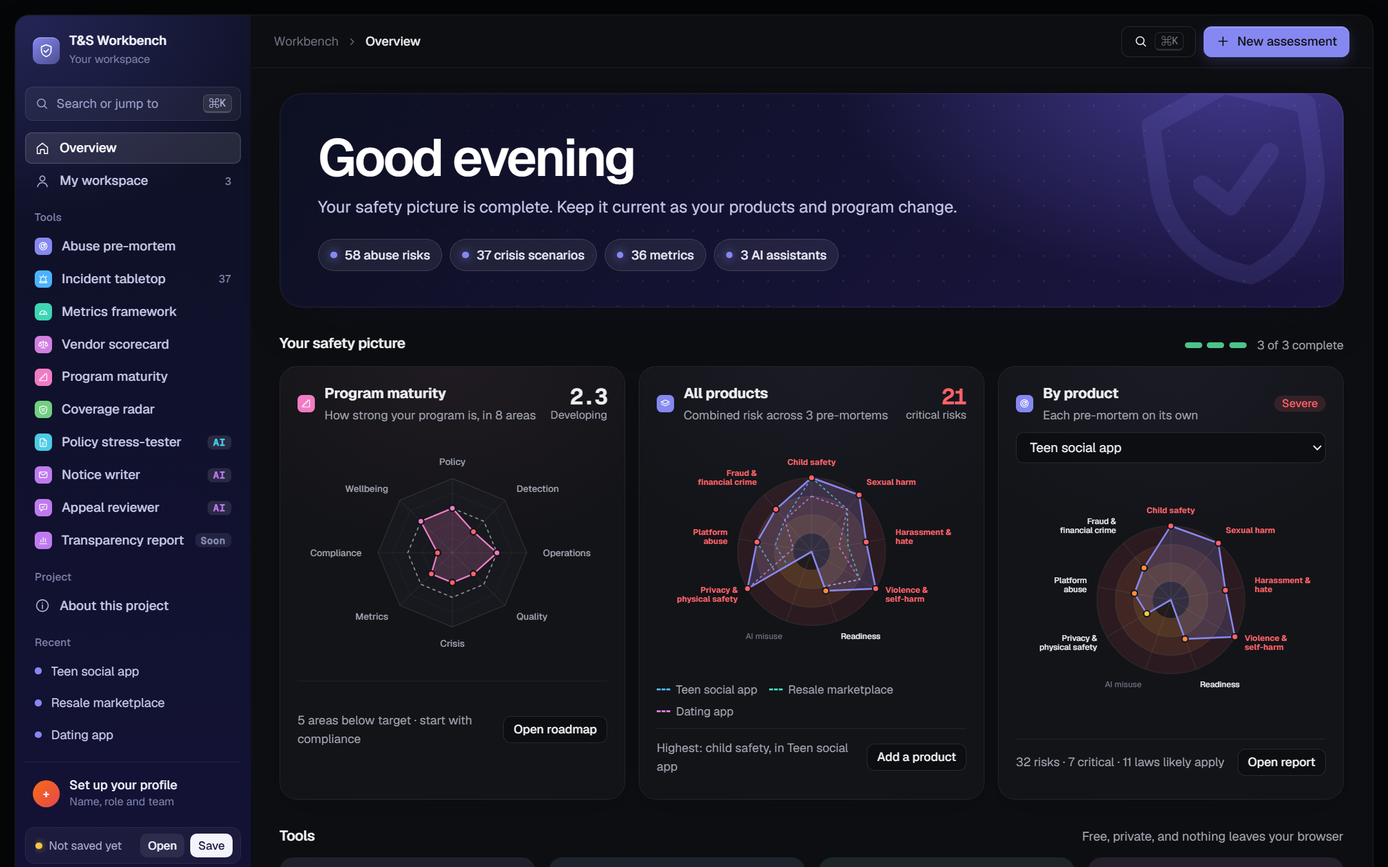
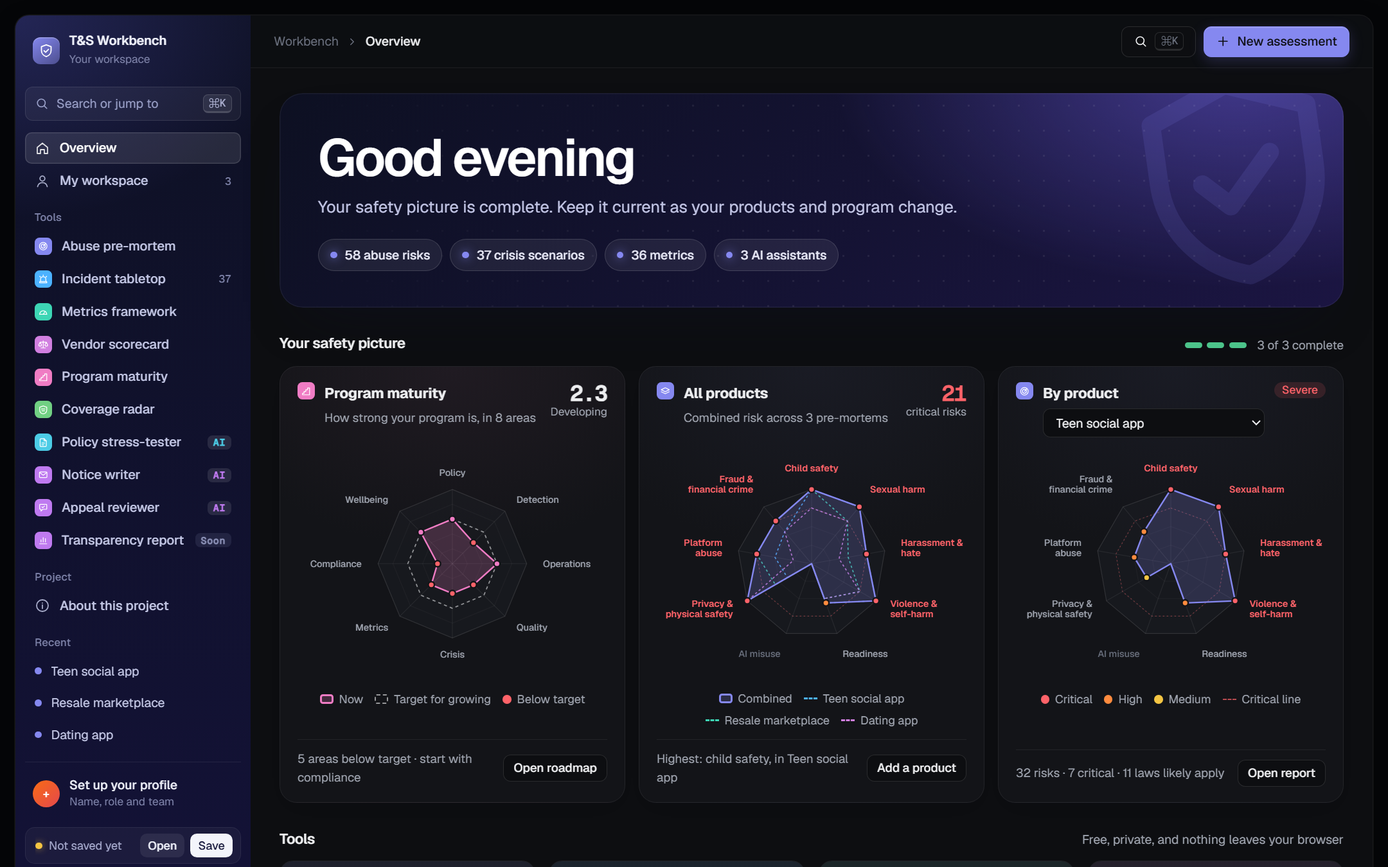
One radar style: risk radars use the maturity radar's polygon rings, and the overview's three radars line up

diff --git a/docs/index.html b/docs/index.html
@@ -2441,6 +2441,29 @@ body[data-route="coverage"]{--tc:var(--t-cv)}
 .ma-snap-c i{flex:1;background:color-mix(in oklab, var(--t-ma) 55%, transparent);border-radius:2px 2px 0 0;min-height:2px}
 @media (max-width:1100px){.ma-band{grid-template-columns:1fr}.ma-byarea{grid-template-columns:1fr}.ma-alist{position:static;grid-template-columns:repeat(2,minmax(0,1fr))}.ma-prog-tab{grid-template-columns:1fr}}
 @media (max-width:640px){.ma-alist{grid-template-columns:1fr}.ma-band{padding:18px}.ma-score.big .mono{font-size:36px}}
+
+/* ---------- Overview radars: one style, one line ---------- */
+.ov-pc{display:flex;flex-direction:column;gap:10px}
+.ov-pc-h{min-height:58px;align-items:start}
+.ov-pc-h > div{gap:4px}
+.ov-pick .select{padding:4px 28px 4px 9px;font-size:13px;height:30px;max-width:100%}
+.ov-pc-r{display:block;min-height:0;aspect-ratio:4/3;width:100%;max-width:440px;margin:0 auto}
+.ov-pc-r > svg,.ov-pc .ma-radar{width:100%;height:100%;max-width:none}
+.ov-pc-empty .ov-pc-r > svg{opacity:.45;filter:grayscale(1);max-width:none}
+.ov-pc .ov-legend{min-height:20px;justify-content:center}
+.ov-pc-f{margin-top:auto}
+.ov-lg-fill{width:14px!important;height:10px!important;border-radius:3px;border:2px solid var(--c)!important;background:color-mix(in oklab, var(--c) 22%, transparent)}
+.ov-lg-tgt{width:14px!important;height:10px!important;border:1.5px dashed var(--ink)!important;border-top-width:1.5px!important;opacity:.6;border-radius:2px}
+.ov-lg-line{width:14px!important;height:0!important;border-top:2px dashed}
+.ov-lg-dot{width:9px!important;height:9px!important;border-radius:50%;background:var(--crit);border:0!important}
+.ov-lg-crit{width:14px!important;height:0!important;border-top:1.5px dashed var(--crit)!important;opacity:.7}
+.ma-rl.crit{fill:var(--crit);font-weight:600}
+.ma-rl.none{fill:var(--faint)}
+.rk-radar{overflow:visible}
+.rk-shape{animation:ovdraw 1.2s cubic-bezier(.2,.7,.2,1) both;stroke-dasharray:1400}
+.radarwrap .rk-radar{width:100%;height:auto}
+.ov-hr .radarwrap{max-width:440px}
+@media (prefers-reduced-motion: reduce){.rk-shape{animation:none}}
 </style>
 
 <svg width="0" height="0" style="position:absolute" aria-hidden="true">
@@ -7884,39 +7907,43 @@ const RADAR_GROUPS = [
   {n:"Platform abuse", l:["Platform","abuse"], cats:["integrity","security","illegal"]},
   {n:"Fraud & financial crime", l:["Fraud &","financial crime"], cats:["fraud","fincrime"]}
 ];
+// Worst risk in each radar group for one assessment
+function pmGroupData(r){
+  return RADAR_GROUPS.map(g => { const rs = r.risks.filter(x => g.cats.includes(x.cat)).sort((a, b) => b.score - a.score), w = rs[0];
+    return {g, score:w ? w.score : 0, band:w ? w.band : null, worst:w ? w.n : "", n:rs.length}; });
+}
+// The risk radar, drawn like the maturity radar: polygon rings, the same size and labels.
+// layers: [{g, color, fill, dash}]; the filled layer is the main shape and sets the dots and label colors.
+// Rings mark 4, 8, 12 and 16 out of 16; the dashed red ring is where risks turn critical.
+function riskRadarSVG(layers, label, opts){
+  const o = opts || {}, n = RADAR_GROUPS.length, W = 400, H = o.big ? 330 : 300, cx = W / 2, cy = H / 2, R = o.big ? 104 : 96, f = v => v.toFixed(1);
+  const ang = i => -Math.PI / 2 + i * 2 * Math.PI / n, pt = (i, s) => [cx + Math.cos(ang(i)) * R * s / 16, cy + Math.sin(ang(i)) * R * s / 16];
+  const poly = vals => vals.map((v, i) => pt(i, v).map(f).join(",")).join(" ");
+  const rings = [4, 8, 12, 16].map(v => `<polygon points="${poly(RADAR_GROUPS.map(() => v))}" fill="${v === 16 ? "var(--sunk)" : "none"}" fill-opacity="${v === 16 ? .5 : 0}" stroke="var(--line${v === 16 ? "-strong" : ""})" stroke-width="1"/>`).join("")
+    + `<polygon points="${poly(RADAR_GROUPS.map(() => 12))}" fill="none" stroke="var(--crit)" stroke-opacity=".4" stroke-width="1" stroke-dasharray="2 3"/>`;
+  const axes = RADAR_GROUPS.map((g, i) => { const [x, y] = pt(i, 16); return `<line x1="${cx}" y1="${cy}" x2="${f(x)}" y2="${f(y)}" stroke="var(--line)" stroke-width="1"/>`; }).join("");
+  const main = layers.find(l => l.fill) || layers[0];
+  const labels = RADAR_GROUPS.map((g, i) => { const [x, y] = pt(i, 16 * (o.big ? 1.25 : 1.22)), c = Math.cos(ang(i)), s = Math.sin(ang(i)), extra = g.l.length - 1, d = main ? main.g[i] : null;
+    const anchor = c > .3 ? "start" : c < -.3 ? "end" : "middle", dy0 = s < -.6 ? `${-.2 - 1.1 * extra}em` : s > .6 ? ".9em" : `${.35 - .55 * extra}em`;
+    return `<text x="${f(x)}" y="${f(y)}" text-anchor="${anchor}" class="ma-rl ${d && d.band === "crit" ? "crit" : d && d.score ? "" : "none"}">${g.l.map((t, j) => `<tspan x="${f(x)}" dy="${j ? "1.1em" : dy0}">${esc(t)}</tspan>`).join("")}</text>`; }).join("");
+  const shapes = layers.map(l => { const pts = poly(l.g.map(d => d.score));
+    return l.fill ? `<polygon class="rk-shape" points="${pts}" fill="${l.color}" fill-opacity=".2" stroke="${l.color}" stroke-width="2" stroke-linejoin="round"/>`
+                  : `<polygon points="${pts}" fill="none" stroke="${l.color}" stroke-width="1.4" stroke-opacity=".85" stroke-linejoin="round" stroke-dasharray="${l.dash || ""}"/>`; }).join("");
+  const dots = main ? main.g.map((d, i) => { const [x, y] = pt(i, d.score), fill = d.band ? `var(--${d.band === "low" ? "muted" : d.band})` : "var(--line-strong)";
+    if(!d.score && !o.interactive) return "";
+    const dot = `<circle cx="${f(x)}" cy="${f(y)}" r="${d.band ? (o.big ? 4.5 : 4) : 3}" fill="${fill}" stroke="var(--surface)" stroke-width="2"/>`;
+    if(!o.interactive) return dot;
+    const inc = d.g.cats.length > 1 ? d.g.cats.map(k => CATS[k]).join(", ") : "";
+    return `<g class="rpt" tabindex="0" data-a="${esc(d.g.n)}" data-i="${esc(inc)}" data-b="${d.band ? BANDS[d.band][0] : "No risks"}" data-s="${d.score}" data-w="${esc(d.worst)}" data-n="${d.n}"><circle cx="${f(x)}" cy="${f(y)}" r="12" fill="transparent"/>${dot}</g>`; }).join("") : "";
+  return `<svg class="ma-radar rk-radar ${o.big ? "big" : ""}" viewBox="0 0 ${W} ${H}" role="img" aria-label="${esc(label)}">${rings}${axes}${shapes}${dots}${labels}</svg>`;
+}
+// Pre-mortem radar with hover and focus details for each point
 function radarChart(r){
-  const n = RADAR_GROUPS.length, cx = 180, cy = 125, R = 88;
-  const ang = i => (-90 + i*360/n) * Math.PI/180;
-  const pt = (i, rad) => [cx + rad*Math.cos(ang(i)), cy + rad*Math.sin(ang(i))];
-  // r.risks is sorted by score, so the first matching risk is the group's worst
-  const data = RADAR_GROUPS.map(g => { const rs = r.risks.filter(x=>g.cats.includes(x.cat)); const worst = rs[0];
-    return {g, n:rs.length, score: worst ? worst.score : 0, band: worst ? worst.band : null, worst: worst ? worst.n : ""}; });
-  const f = v => v.toFixed(1);
-  const poly = data.map((d,i)=>pt(i, R*d.score/16).map(f).join(",")).join(" ");
-  const zones = [[16,"var(--crit-soft)"],[12,"var(--high-soft)"],[8,"var(--med-soft)"],[4,"var(--surface)"]]
-    .map(([v,c])=>`<circle cx="${cx}" cy="${cy}" r="${f(R*v/16)}" fill="${c}" stroke="var(--line)" stroke-width="1"/>`).join("");
-  const spokes = data.map((d,i)=>{ const [x,y]=pt(i,R); return `<line x1="${cx}" y1="${cy}" x2="${f(x)}" y2="${f(y)}" stroke="var(--line)" stroke-width="1"/>`; }).join("");
-  const ringLabels = [[4,"Medium"],[8,"High"],[12,"Critical"]].map(([v,t])=>`<text x="${cx+4}" y="${f(cy - R*v/16 - 3)}" font-size="8" fill="var(--faint)">${t}</text>`).join("");
-  const labels = data.map((d,i)=>{ const [x,y]=pt(i,R+13), c=Math.cos(ang(i)), s=Math.sin(ang(i)), lines=d.g.l, extra=lines.length-1;
-    const anchor = c>0.25?"start":c<-0.25?"end":"middle";
-    const dy0 = s<-0.6 ? `${-0.2-1.1*extra}em` : s>0.6 ? "0.9em" : `${0.35-0.55*extra}em`;
-    return `<text x="${f(x)}" y="${f(y)}" text-anchor="${anchor}" font-size="9.5" fill="${d.score?"var(--ink)":"var(--faint)"}" font-weight="${d.band==="crit"?600:400}">${lines.map((t,j)=>`<tspan x="${f(x)}" dy="${j?"1.1em":dy0}">${esc(t)}</tspan>`).join("")}</text>`; }).join("");
-  const points = data.map((d,i)=>{ const [x,y]=pt(i, R*d.score/16);
-    const fill = d.band ? `var(--${d.band==="low"?"muted":d.band})` : "var(--line-strong)";
-    const inc = d.g.cats.length>1 ? d.g.cats.map(k=>CATS[k]).join(", ") : "";
-    return `<g class="rpt" tabindex="0" data-a="${esc(d.g.n)}" data-i="${esc(inc)}" data-b="${d.band?BANDS[d.band][0]:"No risks"}" data-s="${d.score}" data-w="${esc(d.worst)}" data-n="${d.n}">
-      <circle cx="${f(x)}" cy="${f(y)}" r="12" fill="transparent"/>
-      <circle cx="${f(x)}" cy="${f(y)}" r="${d.band?4.5:3}" fill="${fill}" stroke="var(--surface)" stroke-width="2"/></g>`; }).join("");
-  const top = data.filter(d=>d.score).sort((a,b)=>b.score-a.score).slice(0,3).map(d=>`${d.g.n} (${BANDS[d.band][0].toLowerCase()})`).join(", ");
-  return `<div class="radarwrap">
-    <svg class="radar" viewBox="0 0 360 250" role="img" aria-label="Risk radar by harm group. Highest: ${esc(top||"none")}.">
-      ${zones}${spokes}${ringLabels}
-      <polygon points="${poly}" fill="var(--accent)" fill-opacity=".18" stroke="var(--accent)" stroke-width="2" stroke-linejoin="round"/>
-      ${points}${labels}
-    </svg>
+  const data = pmGroupData(r), top = data.filter(d => d.score).sort((a, b) => b.score - a.score).slice(0, 3).map(d => `${d.g.n} (${BANDS[d.band][0].toLowerCase()})`).join(", ");
+  return `<div class="radarwrap">${riskRadarSVG([{g:data, color:"var(--accent)", fill:true}], "Risk radar by harm group. Highest: " + (top || "none") + ".", {interactive:true, big:true})}
     <div class="rtip" hidden></div>
-    <p class="note radarcap">Each point is the highest-rated risk in that group of harm areas. The further out, the more urgent.</p>
-    <ul class="visually-hidden">${data.map(d=>`<li>${esc(d.g.n)}: ${d.score?`${BANDS[d.band][0]}, score ${d.score} of 16, ${d.n} risk${d.n===1?"":"s"}`:"no risks"}</li>`).join("")}</ul>
+    <p class="note radarcap">Each point is the highest-rated risk in that group of harm areas. The dashed red ring marks critical.</p>
+    <ul class="visually-hidden">${data.map(d => `<li>${esc(d.g.n)}: ${d.score ? `${BANDS[d.band][0]}, score ${d.score} of 16, ${d.n} risk${d.n === 1 ? "" : "s"}` : "no risks"}</li>`).join("")}</ul>
   </div>`;
 }
 function bindRadar(){
@@ -9519,33 +9546,10 @@ function bindCoverage(){
    Program maturity · all products combined · one product at a time
    ========================================================= */
 const OV_LAYER = ["var(--t-tt)", "var(--t-mx)", "var(--t-vd)", "var(--t-ma)", "var(--t-pol)", "var(--high)"];
-// Worst risk in each radar group for one assessment
-function pmGroupData(r){
-  return RADAR_GROUPS.map(g => { const rs = r.risks.filter(x => g.cats.includes(x.cat)).sort((a, b) => b.score - a.score), w = rs[0];
-    return {score:w ? w.score : 0, band:w ? w.band : null, worst:w ? w.n : "", n:rs.length}; });
-}
 // Saved pre-mortems with their assessment, newest first
 function ovSavedPMs(){
   return Object.values(wsItems()).filter(it => it.kind === "premortem" && it.data).sort((a, b) => (b.updated || 0) - (a.updated || 0))
     .map(it => { const r = assess(openRecord(it.data)); return {it, r, g:pmGroupData(r), name:it.title || it.data.name || "Untitled assessment"}; });
-}
-// Risk radar with one or more layers: {g, color, fill} (fill marks the main shape)
-function riskRadarSVG(layers, label){
-  const n = RADAR_GROUPS.length, cx = 180, cy = 124, R = 86, f = v => v.toFixed(1);
-  const ang = i => (-90 + i * 360 / n) * Math.PI / 180, pt = (i, rad) => [cx + rad * Math.cos(ang(i)), cy + rad * Math.sin(ang(i))];
-  const zones = [[16, "var(--crit-soft)"], [12, "var(--high-soft)"], [8, "var(--med-soft)"], [4, "var(--surface)"]]
-    .map(([v, c]) => `<circle cx="${cx}" cy="${cy}" r="${f(R * v / 16)}" fill="${c}" fill-opacity=".75" stroke="var(--line)" stroke-width="1"/>`).join("");
-  const spokes = RADAR_GROUPS.map((g, i) => { const [x, y] = pt(i, R); return `<line x1="${cx}" y1="${cy}" x2="${f(x)}" y2="${f(y)}" stroke="var(--line)"/>`; }).join("");
-  const main = layers.find(l => l.fill) || layers[0];
-  const labels = RADAR_GROUPS.map((g, i) => { const [x, y] = pt(i, R + 13), c = Math.cos(ang(i)), s = Math.sin(ang(i)), extra = g.l.length - 1, d = main ? main.g[i] : null;
-    const anchor = c > .25 ? "start" : c < -.25 ? "end" : "middle", dy0 = s < -.6 ? `${-.2 - 1.1 * extra}em` : s > .6 ? ".9em" : `${.35 - .55 * extra}em`;
-    return `<text x="${f(x)}" y="${f(y)}" text-anchor="${anchor}" class="ov-rl ${d && d.band === "crit" ? "crit" : d && d.score ? "" : "none"}">${g.l.map((t, j) => `<tspan x="${f(x)}" dy="${j ? "1.1em" : dy0}">${esc(t)}</tspan>`).join("")}</text>`; }).join("");
-  const shapes = layers.map(l => { const pts = l.g.map((d, i) => pt(i, R * d.score / 16).map(f).join(",")).join(" ");
-    return l.fill ? `<polygon class="ov-rp" points="${pts}" fill="${l.color}" fill-opacity=".18" stroke="${l.color}" stroke-width="2" stroke-linejoin="round"/>`
-                  : `<polygon points="${pts}" fill="none" stroke="${l.color}" stroke-width="1.4" stroke-opacity=".85" stroke-linejoin="round" stroke-dasharray="${l.dash || ""}"/>`; }).join("");
-  const dots = main ? main.g.map((d, i) => { if(!d.score) return ""; const [x, y] = pt(i, R * d.score / 16);
-    return `<circle cx="${f(x)}" cy="${f(y)}" r="3.6" fill="var(--${d.band === "low" ? "muted" : d.band})" stroke="var(--surface)" stroke-width="1.6"/>`; }).join("") : "";
-  return `<svg class="ov-radar" viewBox="0 0 360 250" role="img" aria-label="${esc(label)}">${zones}${spokes}${shapes}${dots}${labels}</svg>`;
 }
 // Small radar for lists: just the shape
 function miniRiskRadar(r){
@@ -9580,8 +9584,10 @@ function ovPictureHTML(){
     maCard = `<article class="card ov-pc ${m.state === "empty" ? "ov-pc-empty" : ""}" style="--c:var(--t-ma)">
       <header class="ov-pc-h"><span class="sb-glyph" style="background:var(--t-ma)"><svg><use href="#i-steps"/></svg></span><div><b>Program maturity</b><small>How strong your program is, in 8 areas</small></div>
         ${sc !== null ? `<span class="ov-pc-k"><b class="mono">${sc.toFixed(1)}</b><small>${maLevelName(sc)}</small></span>` : ""}</header>
-      <div class="ov-pc-r">${ghost}${m.state === "empty" ? ovInvite("steps", "var(--t-ma)", "How mature is your program?", "Rate eight areas, from policy to reviewer wellbeing, in about five minutes. You'll get a roadmap for the biggest gaps.",
-          `<a class="btn sm primary" href="#maturity" data-ov-ma="start">Start the assessment</a><a class="btn sm" href="#maturity" data-ov-ma="example">See an example</a>`) : ""}</div>
+      <div class="ov-pc-r">${ghost}</div>
+      ${m.state === "empty" ? ovInvite("steps", "var(--t-ma)", "How mature is your program?", "Rate eight areas, from policy to reviewer wellbeing, in about five minutes. You'll get a roadmap for the biggest gaps.",
+          `<a class="btn sm primary" href="#maturity" data-ov-ma="start">Start the assessment</a><a class="btn sm" href="#maturity" data-ov-ma="example">See an example</a>`)
+        : `<div class="ov-legend"><span><i class="ov-lg-fill" style="--c:var(--t-ma)"></i>Now</span><span><i class="ov-lg-tgt"></i>Target for ${esc(maStage().n.toLowerCase())}</span><span><i class="ov-lg-dot"></i>Below target</span></div>`}
       ${m.state === "empty" ? "" : `<footer class="ov-pc-f"><span>${m.state === "partial" ? `${m.rated} of ${MA_AREAS.length} areas rated` : gaps.length ? `${gaps.length} area${gaps.length === 1 ? "" : "s"} below target · start with ${esc(gaps[0].a.s.toLowerCase())}` : "Every area meets its target"}</span>
         <a class="btn sm" href="#maturity">${m.state === "partial" ? "Continue rating" : "Open roadmap"}</a></footer>`}
     </article>`;
@@ -9594,20 +9600,21 @@ function ovPictureHTML(){
   const allCard = `<article class="card ov-pc ${emptyPM ? "ov-pc-empty" : ""}" style="--c:var(--t-pm)">
     <header class="ov-pc-h"><span class="sb-glyph" style="background:var(--t-pm)"><svg><use href="#i-layers"/></svg></span><div><b>All products</b><small>${emptyPM ? "Combined abuse risk across your products" : `Combined risk across ${pms.length} pre-mortem${pms.length === 1 ? "" : "s"}`}</small></div>
       ${emptyPM ? "" : `<span class="ov-pc-k"><b class="mono" style="${crit ? "color:var(--crit)" : ""}">${crit}</b><small>critical risk${crit === 1 ? "" : "s"}</small></span>`}</header>
-    <div class="ov-pc-r">${emptyPM ? ghostPM + ovInvite("radar", "var(--t-pm)", "How could your products be misused?", "Run a pre-mortem on each product or feature. Their risks combine here, so you can see where your whole portfolio is exposed.",
+    <div class="ov-pc-r">${emptyPM ? ghostPM : riskRadarSVG([...pms.slice(0, OV_LAYER.length).map((p, i) => ({g:p.g, color:OV_LAYER[i], dash:"3 3"})), {g:comb, color:"var(--t-pm)", fill:true}], `Combined risk radar across ${pms.length} products. Highest: ${top ? top.g.n : "none"}.`)}</div>
+    ${emptyPM ? ovInvite("radar", "var(--t-pm)", "How could your products be misused?", "Run a pre-mortem on each product or feature. Their risks combine here, so you can see where your whole portfolio is exposed.",
         `<button type="button" class="btn sm primary" data-ov="new">Start a pre-mortem</button><a class="btn sm" href="#premortem">Explore an example</a>`)
-      : riskRadarSVG([...pms.slice(0, OV_LAYER.length).map((p, i) => ({g:p.g, color:OV_LAYER[i], dash:"3 3"})), {g:comb, color:"var(--t-pm)", fill:true}], `Combined risk radar across ${pms.length} products. Highest: ${top ? top.g.n : "none"}.`)}</div>
-    ${emptyPM ? "" : `<div class="ov-legend">${pms.slice(0, 4).map((p, i) => `<span><i style="border-color:${OV_LAYER[i]}"></i>${esc(p.name)}</span>`).join("")}${pms.length > 4 ? `<span class="note">+${pms.length - 4} more</span>` : ""}</div>
+      : `<div class="ov-legend"><span><i class="ov-lg-fill" style="--c:var(--t-pm)"></i>Combined</span>${pms.length > 1 ? pms.slice(0, 3).map((p, i) => `<span><i class="ov-lg-line" style="border-color:${OV_LAYER[i]}"></i>${esc(p.name)}</span>`).join("") + (pms.length > 3 ? `<span class="note">+${pms.length - 3} more</span>` : "") : ""}</div>
     <footer class="ov-pc-f"><span>${top ? `Highest: ${esc(top.g.n.toLowerCase())}${pms.length > 1 ? `, in ${esc(top.d.from)}` : ""}` : "No risks found"}${pms.length === 1 ? " · add another product to compare" : ""}</span><button type="button" class="btn sm" data-ov="new">Add a product</button></footer>`}
   </article>`;
   // 3. One product at a time
   const selId = store.get("ov:pm", null), sel = pms.find(p => p.it.id === selId) || pms[0];
   const oneCard = `<article class="card ov-pc ${sel ? "" : "ov-pc-empty"}" style="--c:var(--t-pm)" id="ov-one">
-    <header class="ov-pc-h"><span class="sb-glyph" style="background:var(--t-pm)"><svg><use href="#i-radar"/></svg></span><div><b>By product</b><small>${sel ? "Each pre-mortem on its own" : "Each product gets its own radar"}</small></div>
+    <header class="ov-pc-h"><span class="sb-glyph" style="background:var(--t-pm)"><svg><use href="#i-radar"/></svg></span><div><b>By product</b>${sel && pms.length > 1 ? `<label class="ov-pick"><span class="visually-hidden">Choose a product</span><select class="select" id="ov-pm-sel">${pms.map(p => `<option value="${esc(p.it.id)}" ${p === sel ? "selected" : ""}>${esc(p.name)}</option>`).join("")}</select></label>` : `<small>${sel ? esc(sel.name) : "Each product gets its own radar"}</small>`}</div>
       ${sel ? `<span class="ov-pc-k"><span class="pill ${sel.r.posture[1]}">${sel.r.posture[0]}</span></span>` : ""}</header>
-    ${sel && pms.length > 1 ? `<label class="ov-pick"><span class="visually-hidden">Choose a product</span><select class="select" id="ov-pm-sel">${pms.map(p => `<option value="${esc(p.it.id)}" ${p === sel ? "selected" : ""}>${esc(p.name)}</option>`).join("")}</select></label>` : sel ? `<p class="ov-pick-one">${esc(sel.name)}</p>` : ""}
-    <div class="ov-pc-r">${sel ? riskRadarSVG([{g:sel.g, color:"var(--t-pm)", fill:true}], `Risk radar for ${sel.name}`) : ghostPM + ovInvite("radar", "var(--t-pm)", "One radar per product", "Save a pre-mortem for each product or launch, then flip between them here to compare how each could be misused.",
-        `<button type="button" class="btn sm primary" data-ov="new">Start a pre-mortem</button>`)}</div>
+    <div class="ov-pc-r">${sel ? riskRadarSVG([{g:sel.g, color:"var(--t-pm)", fill:true}], `Risk radar for ${sel.name}`) : ghostPM}</div>
+    ${sel ? `<div class="ov-legend">${["crit", "high", "med"].map(b => `<span><i class="ov-lg-dot" style="background:var(--${b})"></i>${BANDS[b][0]}</span>`).join("")}<span><i class="ov-lg-crit"></i>Critical line</span></div>`
+      : ovInvite("radar", "var(--t-pm)", "One radar per product", "Save a pre-mortem for each product or launch, then flip between them here to compare how each could be misused.",
+        `<button type="button" class="btn sm primary" data-ov="new">Start a pre-mortem</button>`)}
     ${sel ? `<footer class="ov-pc-f"><span>${sel.r.risks.length} risks · ${sel.r.counts.crit} critical · ${sel.r.obligations.filter(o => o.status === "applies").length} laws likely apply</span><button type="button" class="btn sm" data-open="${esc(sel.it.id)}">Open report</button></footer>` : ""}
   </article>`;
   const total = m.state === "none" ? 2 : 3, done = Math.min(total, st.done);

diff --git a/src/partOV.js b/src/partOV.js
@@ -3,33 +3,10 @@
    Program maturity · all products combined · one product at a time
    ========================================================= */
 const OV_LAYER = ["var(--t-tt)", "var(--t-mx)", "var(--t-vd)", "var(--t-ma)", "var(--t-pol)", "var(--high)"];
-// Worst risk in each radar group for one assessment
-function pmGroupData(r){
-  return RADAR_GROUPS.map(g => { const rs = r.risks.filter(x => g.cats.includes(x.cat)).sort((a, b) => b.score - a.score), w = rs[0];
-    return {score:w ? w.score : 0, band:w ? w.band : null, worst:w ? w.n : "", n:rs.length}; });
-}
 // Saved pre-mortems with their assessment, newest first
 function ovSavedPMs(){
   return Object.values(wsItems()).filter(it => it.kind === "premortem" && it.data).sort((a, b) => (b.updated || 0) - (a.updated || 0))
     .map(it => { const r = assess(openRecord(it.data)); return {it, r, g:pmGroupData(r), name:it.title || it.data.name || "Untitled assessment"}; });
-}
-// Risk radar with one or more layers: {g, color, fill} (fill marks the main shape)
-function riskRadarSVG(layers, label){
-  const n = RADAR_GROUPS.length, cx = 180, cy = 124, R = 86, f = v => v.toFixed(1);
-  const ang = i => (-90 + i * 360 / n) * Math.PI / 180, pt = (i, rad) => [cx + rad * Math.cos(ang(i)), cy + rad * Math.sin(ang(i))];
-  const zones = [[16, "var(--crit-soft)"], [12, "var(--high-soft)"], [8, "var(--med-soft)"], [4, "var(--surface)"]]
-    .map(([v, c]) => `<circle cx="${cx}" cy="${cy}" r="${f(R * v / 16)}" fill="${c}" fill-opacity=".75" stroke="var(--line)" stroke-width="1"/>`).join("");
-  const spokes = RADAR_GROUPS.map((g, i) => { const [x, y] = pt(i, R); return `<line x1="${cx}" y1="${cy}" x2="${f(x)}" y2="${f(y)}" stroke="var(--line)"/>`; }).join("");
-  const main = layers.find(l => l.fill) || layers[0];
-  const labels = RADAR_GROUPS.map((g, i) => { const [x, y] = pt(i, R + 13), c = Math.cos(ang(i)), s = Math.sin(ang(i)), extra = g.l.length - 1, d = main ? main.g[i] : null;
-    const anchor = c > .25 ? "start" : c < -.25 ? "end" : "middle", dy0 = s < -.6 ? `${-.2 - 1.1 * extra}em` : s > .6 ? ".9em" : `${.35 - .55 * extra}em`;
-    return `<text x="${f(x)}" y="${f(y)}" text-anchor="${anchor}" class="ov-rl ${d && d.band === "crit" ? "crit" : d && d.score ? "" : "none"}">${g.l.map((t, j) => `<tspan x="${f(x)}" dy="${j ? "1.1em" : dy0}">${esc(t)}</tspan>`).join("")}</text>`; }).join("");
-  const shapes = layers.map(l => { const pts = l.g.map((d, i) => pt(i, R * d.score / 16).map(f).join(",")).join(" ");
-    return l.fill ? `<polygon class="ov-rp" points="${pts}" fill="${l.color}" fill-opacity=".18" stroke="${l.color}" stroke-width="2" stroke-linejoin="round"/>`
-                  : `<polygon points="${pts}" fill="none" stroke="${l.color}" stroke-width="1.4" stroke-opacity=".85" stroke-linejoin="round" stroke-dasharray="${l.dash || ""}"/>`; }).join("");
-  const dots = main ? main.g.map((d, i) => { if(!d.score) return ""; const [x, y] = pt(i, R * d.score / 16);
-    return `<circle cx="${f(x)}" cy="${f(y)}" r="3.6" fill="var(--${d.band === "low" ? "muted" : d.band})" stroke="var(--surface)" stroke-width="1.6"/>`; }).join("") : "";
-  return `<svg class="ov-radar" viewBox="0 0 360 250" role="img" aria-label="${esc(label)}">${zones}${spokes}${shapes}${dots}${labels}</svg>`;
 }
 // Small radar for lists: just the shape
 function miniRiskRadar(r){
@@ -64,8 +41,10 @@ function ovPictureHTML(){
     maCard = `<article class="card ov-pc ${m.state === "empty" ? "ov-pc-empty" : ""}" style="--c:var(--t-ma)">
       <header class="ov-pc-h"><span class="sb-glyph" style="background:var(--t-ma)"><svg><use href="#i-steps"/></svg></span><div><b>Program maturity</b><small>How strong your program is, in 8 areas</small></div>
         ${sc !== null ? `<span class="ov-pc-k"><b class="mono">${sc.toFixed(1)}</b><small>${maLevelName(sc)}</small></span>` : ""}</header>
-      <div class="ov-pc-r">${ghost}${m.state === "empty" ? ovInvite("steps", "var(--t-ma)", "How mature is your program?", "Rate eight areas, from policy to reviewer wellbeing, in about five minutes. You'll get a roadmap for the biggest gaps.",
-          `<a class="btn sm primary" href="#maturity" data-ov-ma="start">Start the assessment</a><a class="btn sm" href="#maturity" data-ov-ma="example">See an example</a>`) : ""}</div>
+      <div class="ov-pc-r">${ghost}</div>
+      ${m.state === "empty" ? ovInvite("steps", "var(--t-ma)", "How mature is your program?", "Rate eight areas, from policy to reviewer wellbeing, in about five minutes. You'll get a roadmap for the biggest gaps.",
+          `<a class="btn sm primary" href="#maturity" data-ov-ma="start">Start the assessment</a><a class="btn sm" href="#maturity" data-ov-ma="example">See an example</a>`)
+        : `<div class="ov-legend"><span><i class="ov-lg-fill" style="--c:var(--t-ma)"></i>Now</span><span><i class="ov-lg-tgt"></i>Target for ${esc(maStage().n.toLowerCase())}</span><span><i class="ov-lg-dot"></i>Below target</span></div>`}
       ${m.state === "empty" ? "" : `<footer class="ov-pc-f"><span>${m.state === "partial" ? `${m.rated} of ${MA_AREAS.length} areas rated` : gaps.length ? `${gaps.length} area${gaps.length === 1 ? "" : "s"} below target · start with ${esc(gaps[0].a.s.toLowerCase())}` : "Every area meets its target"}</span>
         <a class="btn sm" href="#maturity">${m.state === "partial" ? "Continue rating" : "Open roadmap"}</a></footer>`}
     </article>`;
@@ -78,20 +57,21 @@ function ovPictureHTML(){
   const allCard = `<article class="card ov-pc ${emptyPM ? "ov-pc-empty" : ""}" style="--c:var(--t-pm)">
     <header class="ov-pc-h"><span class="sb-glyph" style="background:var(--t-pm)"><svg><use href="#i-layers"/></svg></span><div><b>All products</b><small>${emptyPM ? "Combined abuse risk across your products" : `Combined risk across ${pms.length} pre-mortem${pms.length === 1 ? "" : "s"}`}</small></div>
       ${emptyPM ? "" : `<span class="ov-pc-k"><b class="mono" style="${crit ? "color:var(--crit)" : ""}">${crit}</b><small>critical risk${crit === 1 ? "" : "s"}</small></span>`}</header>
-    <div class="ov-pc-r">${emptyPM ? ghostPM + ovInvite("radar", "var(--t-pm)", "How could your products be misused?", "Run a pre-mortem on each product or feature. Their risks combine here, so you can see where your whole portfolio is exposed.",
+    <div class="ov-pc-r">${emptyPM ? ghostPM : riskRadarSVG([...pms.slice(0, OV_LAYER.length).map((p, i) => ({g:p.g, color:OV_LAYER[i], dash:"3 3"})), {g:comb, color:"var(--t-pm)", fill:true}], `Combined risk radar across ${pms.length} products. Highest: ${top ? top.g.n : "none"}.`)}</div>
+    ${emptyPM ? ovInvite("radar", "var(--t-pm)", "How could your products be misused?", "Run a pre-mortem on each product or feature. Their risks combine here, so you can see where your whole portfolio is exposed.",
         `<button type="button" class="btn sm primary" data-ov="new">Start a pre-mortem</button><a class="btn sm" href="#premortem">Explore an example</a>`)
-      : riskRadarSVG([...pms.slice(0, OV_LAYER.length).map((p, i) => ({g:p.g, color:OV_LAYER[i], dash:"3 3"})), {g:comb, color:"var(--t-pm)", fill:true}], `Combined risk radar across ${pms.length} products. Highest: ${top ? top.g.n : "none"}.`)}</div>
-    ${emptyPM ? "" : `<div class="ov-legend">${pms.slice(0, 4).map((p, i) => `<span><i style="border-color:${OV_LAYER[i]}"></i>${esc(p.name)}</span>`).join("")}${pms.length > 4 ? `<span class="note">+${pms.length - 4} more</span>` : ""}</div>
+      : `<div class="ov-legend"><span><i class="ov-lg-fill" style="--c:var(--t-pm)"></i>Combined</span>${pms.length > 1 ? pms.slice(0, 3).map((p, i) => `<span><i class="ov-lg-line" style="border-color:${OV_LAYER[i]}"></i>${esc(p.name)}</span>`).join("") + (pms.length > 3 ? `<span class="note">+${pms.length - 3} more</span>` : "") : ""}</div>
     <footer class="ov-pc-f"><span>${top ? `Highest: ${esc(top.g.n.toLowerCase())}${pms.length > 1 ? `, in ${esc(top.d.from)}` : ""}` : "No risks found"}${pms.length === 1 ? " · add another product to compare" : ""}</span><button type="button" class="btn sm" data-ov="new">Add a product</button></footer>`}
   </article>`;
   // 3. One product at a time
   const selId = store.get("ov:pm", null), sel = pms.find(p => p.it.id === selId) || pms[0];
   const oneCard = `<article class="card ov-pc ${sel ? "" : "ov-pc-empty"}" style="--c:var(--t-pm)" id="ov-one">
-    <header class="ov-pc-h"><span class="sb-glyph" style="background:var(--t-pm)"><svg><use href="#i-radar"/></svg></span><div><b>By product</b><small>${sel ? "Each pre-mortem on its own" : "Each product gets its own radar"}</small></div>
+    <header class="ov-pc-h"><span class="sb-glyph" style="background:var(--t-pm)"><svg><use href="#i-radar"/></svg></span><div><b>By product</b>${sel && pms.length > 1 ? `<label class="ov-pick"><span class="visually-hidden">Choose a product</span><select class="select" id="ov-pm-sel">${pms.map(p => `<option value="${esc(p.it.id)}" ${p === sel ? "selected" : ""}>${esc(p.name)}</option>`).join("")}</select></label>` : `<small>${sel ? esc(sel.name) : "Each product gets its own radar"}</small>`}</div>
       ${sel ? `<span class="ov-pc-k"><span class="pill ${sel.r.posture[1]}">${sel.r.posture[0]}</span></span>` : ""}</header>
-    ${sel && pms.length > 1 ? `<label class="ov-pick"><span class="visually-hidden">Choose a product</span><select class="select" id="ov-pm-sel">${pms.map(p => `<option value="${esc(p.it.id)}" ${p === sel ? "selected" : ""}>${esc(p.name)}</option>`).join("")}</select></label>` : sel ? `<p class="ov-pick-one">${esc(sel.name)}</p>` : ""}
-    <div class="ov-pc-r">${sel ? riskRadarSVG([{g:sel.g, color:"var(--t-pm)", fill:true}], `Risk radar for ${sel.name}`) : ghostPM + ovInvite("radar", "var(--t-pm)", "One radar per product", "Save a pre-mortem for each product or launch, then flip between them here to compare how each could be misused.",
-        `<button type="button" class="btn sm primary" data-ov="new">Start a pre-mortem</button>`)}</div>
+    <div class="ov-pc-r">${sel ? riskRadarSVG([{g:sel.g, color:"var(--t-pm)", fill:true}], `Risk radar for ${sel.name}`) : ghostPM}</div>
+    ${sel ? `<div class="ov-legend">${["crit", "high", "med"].map(b => `<span><i class="ov-lg-dot" style="background:var(--${b})"></i>${BANDS[b][0]}</span>`).join("")}<span><i class="ov-lg-crit"></i>Critical line</span></div>`
+      : ovInvite("radar", "var(--t-pm)", "One radar per product", "Save a pre-mortem for each product or launch, then flip between them here to compare how each could be misused.",
+        `<button type="button" class="btn sm primary" data-ov="new">Start a pre-mortem</button>`)}
     ${sel ? `<footer class="ov-pc-f"><span>${sel.r.risks.length} risks · ${sel.r.counts.crit} critical · ${sel.r.obligations.filter(o => o.status === "applies").length} laws likely apply</span><button type="button" class="btn sm" data-open="${esc(sel.it.id)}">Open report</button></footer>` : ""}
   </article>`;
   const total = m.state === "none" ? 2 : 3, done = Math.min(total, st.done);

diff --git a/src/partH2.js b/src/partH2.js
@@ -12,39 +12,43 @@ const RADAR_GROUPS = [
   {n:"Platform abuse", l:["Platform","abuse"], cats:["integrity","security","illegal"]},
   {n:"Fraud & financial crime", l:["Fraud &","financial crime"], cats:["fraud","fincrime"]}
 ];
+// Worst risk in each radar group for one assessment
+function pmGroupData(r){
+  return RADAR_GROUPS.map(g => { const rs = r.risks.filter(x => g.cats.includes(x.cat)).sort((a, b) => b.score - a.score), w = rs[0];
+    return {g, score:w ? w.score : 0, band:w ? w.band : null, worst:w ? w.n : "", n:rs.length}; });
+}
+// The risk radar, drawn like the maturity radar: polygon rings, the same size and labels.
+// layers: [{g, color, fill, dash}]; the filled layer is the main shape and sets the dots and label colors.
+// Rings mark 4, 8, 12 and 16 out of 16; the dashed red ring is where risks turn critical.
+function riskRadarSVG(layers, label, opts){
+  const o = opts || {}, n = RADAR_GROUPS.length, W = 400, H = o.big ? 330 : 300, cx = W / 2, cy = H / 2, R = o.big ? 104 : 96, f = v => v.toFixed(1);
+  const ang = i => -Math.PI / 2 + i * 2 * Math.PI / n, pt = (i, s) => [cx + Math.cos(ang(i)) * R * s / 16, cy + Math.sin(ang(i)) * R * s / 16];
+  const poly = vals => vals.map((v, i) => pt(i, v).map(f).join(",")).join(" ");
+  const rings = [4, 8, 12, 16].map(v => `<polygon points="${poly(RADAR_GROUPS.map(() => v))}" fill="${v === 16 ? "var(--sunk)" : "none"}" fill-opacity="${v === 16 ? .5 : 0}" stroke="var(--line${v === 16 ? "-strong" : ""})" stroke-width="1"/>`).join("")
+    + `<polygon points="${poly(RADAR_GROUPS.map(() => 12))}" fill="none" stroke="var(--crit)" stroke-opacity=".4" stroke-width="1" stroke-dasharray="2 3"/>`;
+  const axes = RADAR_GROUPS.map((g, i) => { const [x, y] = pt(i, 16); return `<line x1="${cx}" y1="${cy}" x2="${f(x)}" y2="${f(y)}" stroke="var(--line)" stroke-width="1"/>`; }).join("");
+  const main = layers.find(l => l.fill) || layers[0];
+  const labels = RADAR_GROUPS.map((g, i) => { const [x, y] = pt(i, 16 * (o.big ? 1.25 : 1.22)), c = Math.cos(ang(i)), s = Math.sin(ang(i)), extra = g.l.length - 1, d = main ? main.g[i] : null;
+    const anchor = c > .3 ? "start" : c < -.3 ? "end" : "middle", dy0 = s < -.6 ? `${-.2 - 1.1 * extra}em` : s > .6 ? ".9em" : `${.35 - .55 * extra}em`;
+    return `<text x="${f(x)}" y="${f(y)}" text-anchor="${anchor}" class="ma-rl ${d && d.band === "crit" ? "crit" : d && d.score ? "" : "none"}">${g.l.map((t, j) => `<tspan x="${f(x)}" dy="${j ? "1.1em" : dy0}">${esc(t)}</tspan>`).join("")}</text>`; }).join("");
+  const shapes = layers.map(l => { const pts = poly(l.g.map(d => d.score));
+    return l.fill ? `<polygon class="rk-shape" points="${pts}" fill="${l.color}" fill-opacity=".2" stroke="${l.color}" stroke-width="2" stroke-linejoin="round"/>`
+                  : `<polygon points="${pts}" fill="none" stroke="${l.color}" stroke-width="1.4" stroke-opacity=".85" stroke-linejoin="round" stroke-dasharray="${l.dash || ""}"/>`; }).join("");
+  const dots = main ? main.g.map((d, i) => { const [x, y] = pt(i, d.score), fill = d.band ? `var(--${d.band === "low" ? "muted" : d.band})` : "var(--line-strong)";
+    if(!d.score && !o.interactive) return "";
+    const dot = `<circle cx="${f(x)}" cy="${f(y)}" r="${d.band ? (o.big ? 4.5 : 4) : 3}" fill="${fill}" stroke="var(--surface)" stroke-width="2"/>`;
+    if(!o.interactive) return dot;
+    const inc = d.g.cats.length > 1 ? d.g.cats.map(k => CATS[k]).join(", ") : "";
+    return `<g class="rpt" tabindex="0" data-a="${esc(d.g.n)}" data-i="${esc(inc)}" data-b="${d.band ? BANDS[d.band][0] : "No risks"}" data-s="${d.score}" data-w="${esc(d.worst)}" data-n="${d.n}"><circle cx="${f(x)}" cy="${f(y)}" r="12" fill="transparent"/>${dot}</g>`; }).join("") : "";
+  return `<svg class="ma-radar rk-radar ${o.big ? "big" : ""}" viewBox="0 0 ${W} ${H}" role="img" aria-label="${esc(label)}">${rings}${axes}${shapes}${dots}${labels}</svg>`;
+}
+// Pre-mortem radar with hover and focus details for each point
 function radarChart(r){
-  const n = RADAR_GROUPS.length, cx = 180, cy = 125, R = 88;
-  const ang = i => (-90 + i*360/n) * Math.PI/180;
-  const pt = (i, rad) => [cx + rad*Math.cos(ang(i)), cy + rad*Math.sin(ang(i))];
-  // r.risks is sorted by score, so the first matching risk is the group's worst
-  const data = RADAR_GROUPS.map(g => { const rs = r.risks.filter(x=>g.cats.includes(x.cat)); const worst = rs[0];
-    return {g, n:rs.length, score: worst ? worst.score : 0, band: worst ? worst.band : null, worst: worst ? worst.n : ""}; });
-  const f = v => v.toFixed(1);
-  const poly = data.map((d,i)=>pt(i, R*d.score/16).map(f).join(",")).join(" ");
-  const zones = [[16,"var(--crit-soft)"],[12,"var(--high-soft)"],[8,"var(--med-soft)"],[4,"var(--surface)"]]
-    .map(([v,c])=>`<circle cx="${cx}" cy="${cy}" r="${f(R*v/16)}" fill="${c}" stroke="var(--line)" stroke-width="1"/>`).join("");
-  const spokes = data.map((d,i)=>{ const [x,y]=pt(i,R); return `<line x1="${cx}" y1="${cy}" x2="${f(x)}" y2="${f(y)}" stroke="var(--line)" stroke-width="1"/>`; }).join("");
-  const ringLabels = [[4,"Medium"],[8,"High"],[12,"Critical"]].map(([v,t])=>`<text x="${cx+4}" y="${f(cy - R*v/16 - 3)}" font-size="8" fill="var(--faint)">${t}</text>`).join("");
-  const labels = data.map((d,i)=>{ const [x,y]=pt(i,R+13), c=Math.cos(ang(i)), s=Math.sin(ang(i)), lines=d.g.l, extra=lines.length-1;
-    const anchor = c>0.25?"start":c<-0.25?"end":"middle";
-    const dy0 = s<-0.6 ? `${-0.2-1.1*extra}em` : s>0.6 ? "0.9em" : `${0.35-0.55*extra}em`;
-    return `<text x="${f(x)}" y="${f(y)}" text-anchor="${anchor}" font-size="9.5" fill="${d.score?"var(--ink)":"var(--faint)"}" font-weight="${d.band==="crit"?600:400}">${lines.map((t,j)=>`<tspan x="${f(x)}" dy="${j?"1.1em":dy0}">${esc(t)}</tspan>`).join("")}</text>`; }).join("");
-  const points = data.map((d,i)=>{ const [x,y]=pt(i, R*d.score/16);
-    const fill = d.band ? `var(--${d.band==="low"?"muted":d.band})` : "var(--line-strong)";
-    const inc = d.g.cats.length>1 ? d.g.cats.map(k=>CATS[k]).join(", ") : "";
-    return `<g class="rpt" tabindex="0" data-a="${esc(d.g.n)}" data-i="${esc(inc)}" data-b="${d.band?BANDS[d.band][0]:"No risks"}" data-s="${d.score}" data-w="${esc(d.worst)}" data-n="${d.n}">
-      <circle cx="${f(x)}" cy="${f(y)}" r="12" fill="transparent"/>
-      <circle cx="${f(x)}" cy="${f(y)}" r="${d.band?4.5:3}" fill="${fill}" stroke="var(--surface)" stroke-width="2"/></g>`; }).join("");
-  const top = data.filter(d=>d.score).sort((a,b)=>b.score-a.score).slice(0,3).map(d=>`${d.g.n} (${BANDS[d.band][0].toLowerCase()})`).join(", ");
-  return `<div class="radarwrap">
-    <svg class="radar" viewBox="0 0 360 250" role="img" aria-label="Risk radar by harm group. Highest: ${esc(top||"none")}.">
-      ${zones}${spokes}${ringLabels}
-      <polygon points="${poly}" fill="var(--accent)" fill-opacity=".18" stroke="var(--accent)" stroke-width="2" stroke-linejoin="round"/>
-      ${points}${labels}
-    </svg>
+  const data = pmGroupData(r), top = data.filter(d => d.score).sort((a, b) => b.score - a.score).slice(0, 3).map(d => `${d.g.n} (${BANDS[d.band][0].toLowerCase()})`).join(", ");
+  return `<div class="radarwrap">${riskRadarSVG([{g:data, color:"var(--accent)", fill:true}], "Risk radar by harm group. Highest: " + (top || "none") + ".", {interactive:true, big:true})}
     <div class="rtip" hidden></div>
-    <p class="note radarcap">Each point is the highest-rated risk in that group of harm areas. The further out, the more urgent.</p>
-    <ul class="visually-hidden">${data.map(d=>`<li>${esc(d.g.n)}: ${d.score?`${BANDS[d.band][0]}, score ${d.score} of 16, ${d.n} risk${d.n===1?"":"s"}`:"no risks"}</li>`).join("")}</ul>
+    <p class="note radarcap">Each point is the highest-rated risk in that group of harm areas. The dashed red ring marks critical.</p>
+    <ul class="visually-hidden">${data.map(d => `<li>${esc(d.g.n)}: ${d.score ? `${BANDS[d.band][0]}, score ${d.score} of 16, ${d.n} risk${d.n === 1 ? "" : "s"}` : "no risks"}</li>`).join("")}</ul>
   </div>`;
 }
 function bindRadar(){

diff --git a/src/partZ8.css b/src/partZ8.css
@@ -502,3 +502,26 @@ body[data-route="coverage"]{--tc:var(--t-cv)}
 .ma-snap-c i{flex:1;background:color-mix(in oklab, var(--t-ma) 55%, transparent);border-radius:2px 2px 0 0;min-height:2px}
 @media (max-width:1100px){.ma-band{grid-template-columns:1fr}.ma-byarea{grid-template-columns:1fr}.ma-alist{position:static;grid-template-columns:repeat(2,minmax(0,1fr))}.ma-prog-tab{grid-template-columns:1fr}}
 @media (max-width:640px){.ma-alist{grid-template-columns:1fr}.ma-band{padding:18px}.ma-score.big .mono{font-size:36px}}
+
+/* ---------- Overview radars: one style, one line ---------- */
+.ov-pc{display:flex;flex-direction:column;gap:10px}
+.ov-pc-h{min-height:58px;align-items:start}
+.ov-pc-h > div{gap:4px}
+.ov-pick .select{padding:4px 28px 4px 9px;font-size:13px;height:30px;max-width:100%}
+.ov-pc-r{display:block;min-height:0;aspect-ratio:4/3;width:100%;max-width:440px;margin:0 auto}
+.ov-pc-r > svg,.ov-pc .ma-radar{width:100%;height:100%;max-width:none}
+.ov-pc-empty .ov-pc-r > svg{opacity:.45;filter:grayscale(1);max-width:none}
+.ov-pc .ov-legend{min-height:20px;justify-content:center}
+.ov-pc-f{margin-top:auto}
+.ov-lg-fill{width:14px!important;height:10px!important;border-radius:3px;border:2px solid var(--c)!important;background:color-mix(in oklab, var(--c) 22%, transparent)}
+.ov-lg-tgt{width:14px!important;height:10px!important;border:1.5px dashed var(--ink)!important;border-top-width:1.5px!important;opacity:.6;border-radius:2px}
+.ov-lg-line{width:14px!important;height:0!important;border-top:2px dashed}
+.ov-lg-dot{width:9px!important;height:9px!important;border-radius:50%;background:var(--crit);border:0!important}
+.ov-lg-crit{width:14px!important;height:0!important;border-top:1.5px dashed var(--crit)!important;opacity:.7}
+.ma-rl.crit{fill:var(--crit);font-weight:600}
+.ma-rl.none{fill:var(--faint)}
+.rk-radar{overflow:visible}
+.rk-shape{animation:ovdraw 1.2s cubic-bezier(.2,.7,.2,1) both;stroke-dasharray:1400}
+.radarwrap .rk-radar{width:100%;height:auto}
+.ov-hr .radarwrap{max-width:440px}
+@media (prefers-reduced-motion: reduce){.rk-shape{animation:none}}
